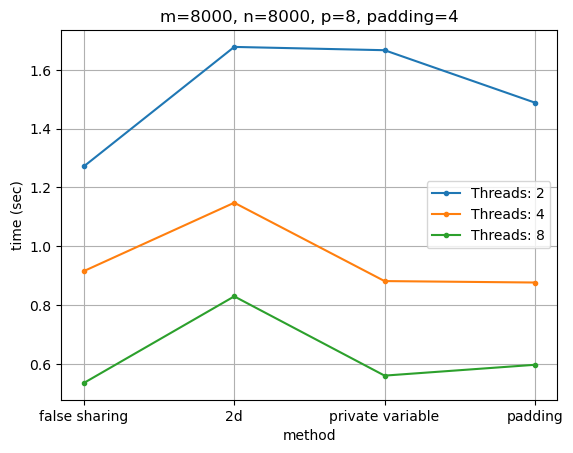
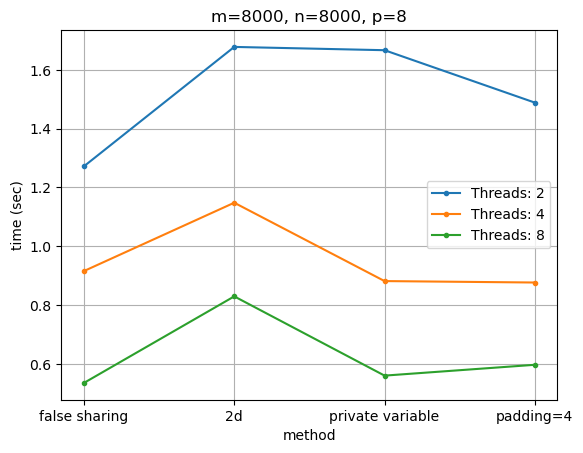
1.2 plots updated vol.kourasan

diff --git a/PThreads/matmul/plots.py b/PThreads/matmul/plots.py
@@ -32,11 +32,11 @@ combs = [x + [thread] for x in combs for thread in threads]
 
 output_csv = './output/results.csv'
 
-with open(output_csv, 'w') as file:
-    file.write('method,threads,padding,time,m,n,p\n')
+# with open(output_csv, 'w') as file:
+#     file.write('method,threads,padding,time,m,n,p\n')
 
-for params in combs:
-    process = subprocess.run(list(params) + [output_csv])
+# for params in combs:
+#     process = subprocess.run(list(params) + [output_csv])
 
 
 for dfs_dim in [group for _, group in pd.read_csv(output_csv).groupby(['m', 'n', 'p'])]:
@@ -48,13 +48,15 @@ for dfs_dim in [group for _, group in pd.read_csv(output_csv).groupby(['m', 'n',
 
         fig, ax = plt.subplots()
         ax.grid(visible=True)
-        ax.set_title(f'm={m}, n={n}, p={p}, padding={pad}')
+        # ax.set_title(f'm={m}, n={n}, p={p}, padding={pad}')
+        ax.set_title(f'm={m}, n={n}, p={p}')
         ax.set_xlabel('method')
         ax.set_ylabel('time (sec)')
 
         for df in [group for _, group in dfs_dim.groupby('threads')]:
             uniq_df = df[df['padding'].isin([0, int(pad)])]
-            ax.plot(uniq_df['method'], uniq_df['time'], '.-', label=f'Threads: {df["threads"].values[0]}')
+            ax.plot(uniq_df['method'].apply(lambda x : x if x != 'padding' else f'padding={pad}'), 
+                    uniq_df['time'], '.-', label=f'Threads: {df["threads"].values[0]}')
 
         ax.legend(loc="best")
         plt.savefig(f'./output/plot{m}-{n}-{p}-{pad}.png', bbox_inches='tight')
